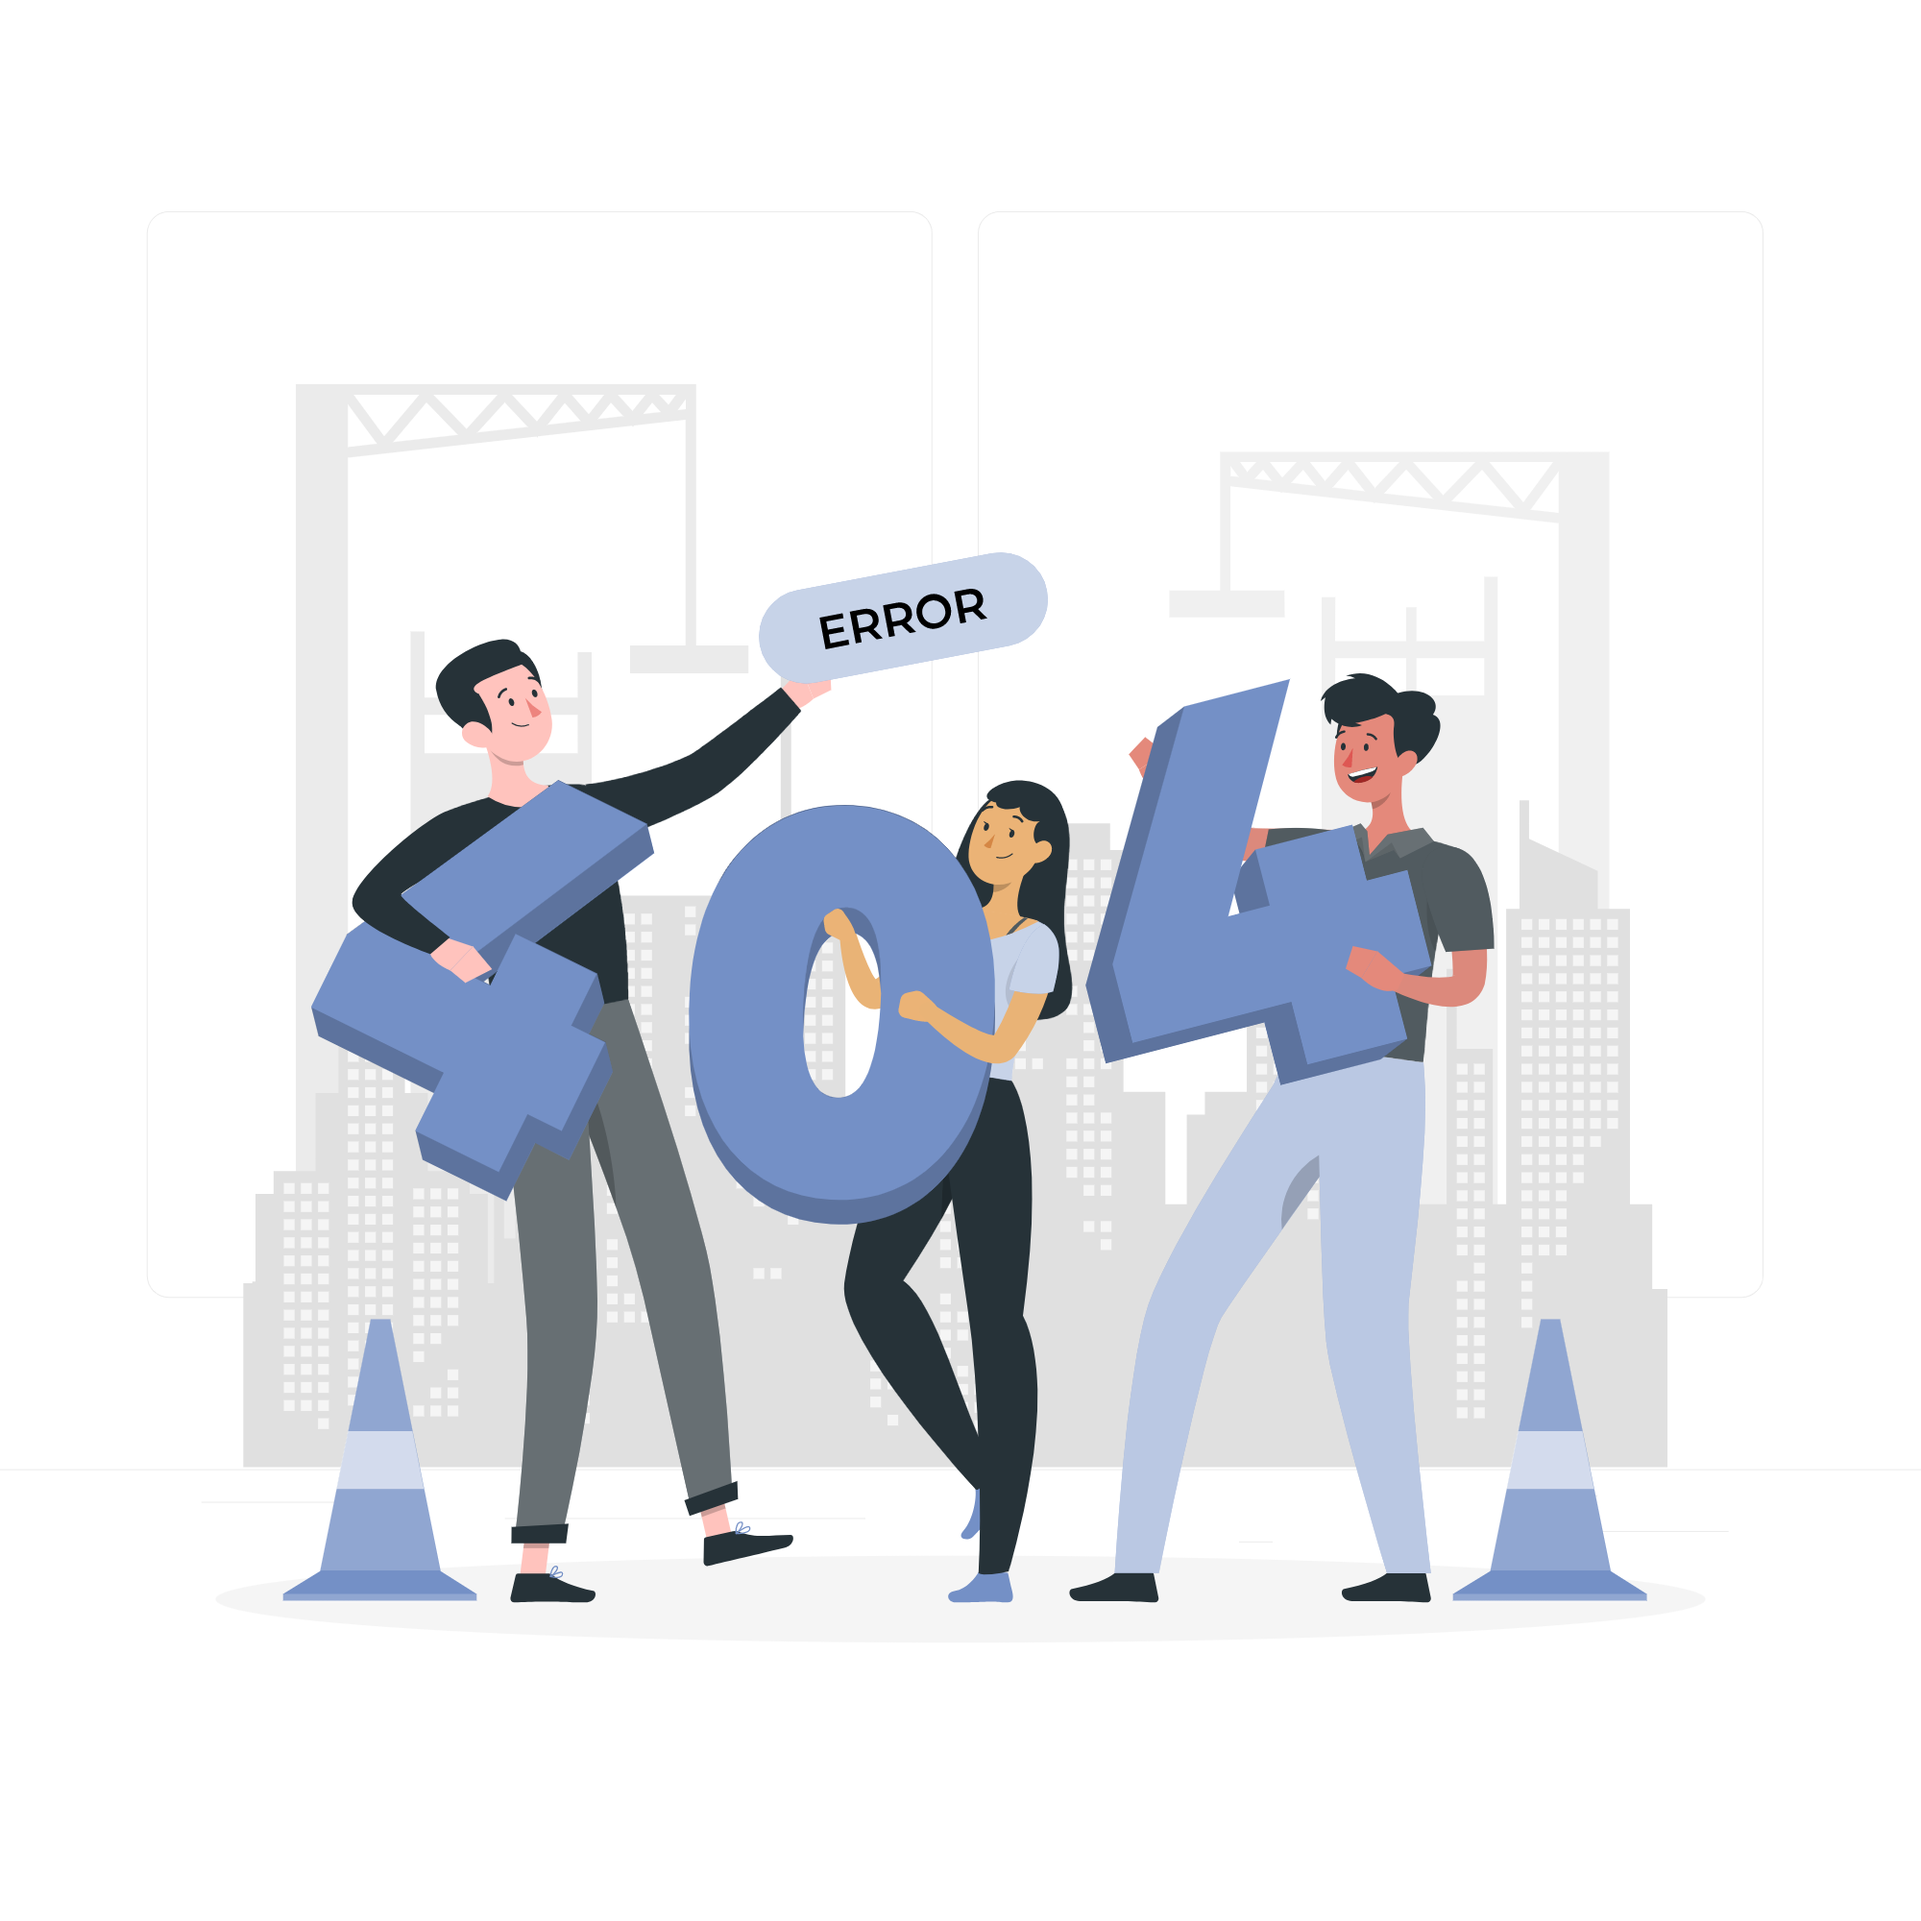
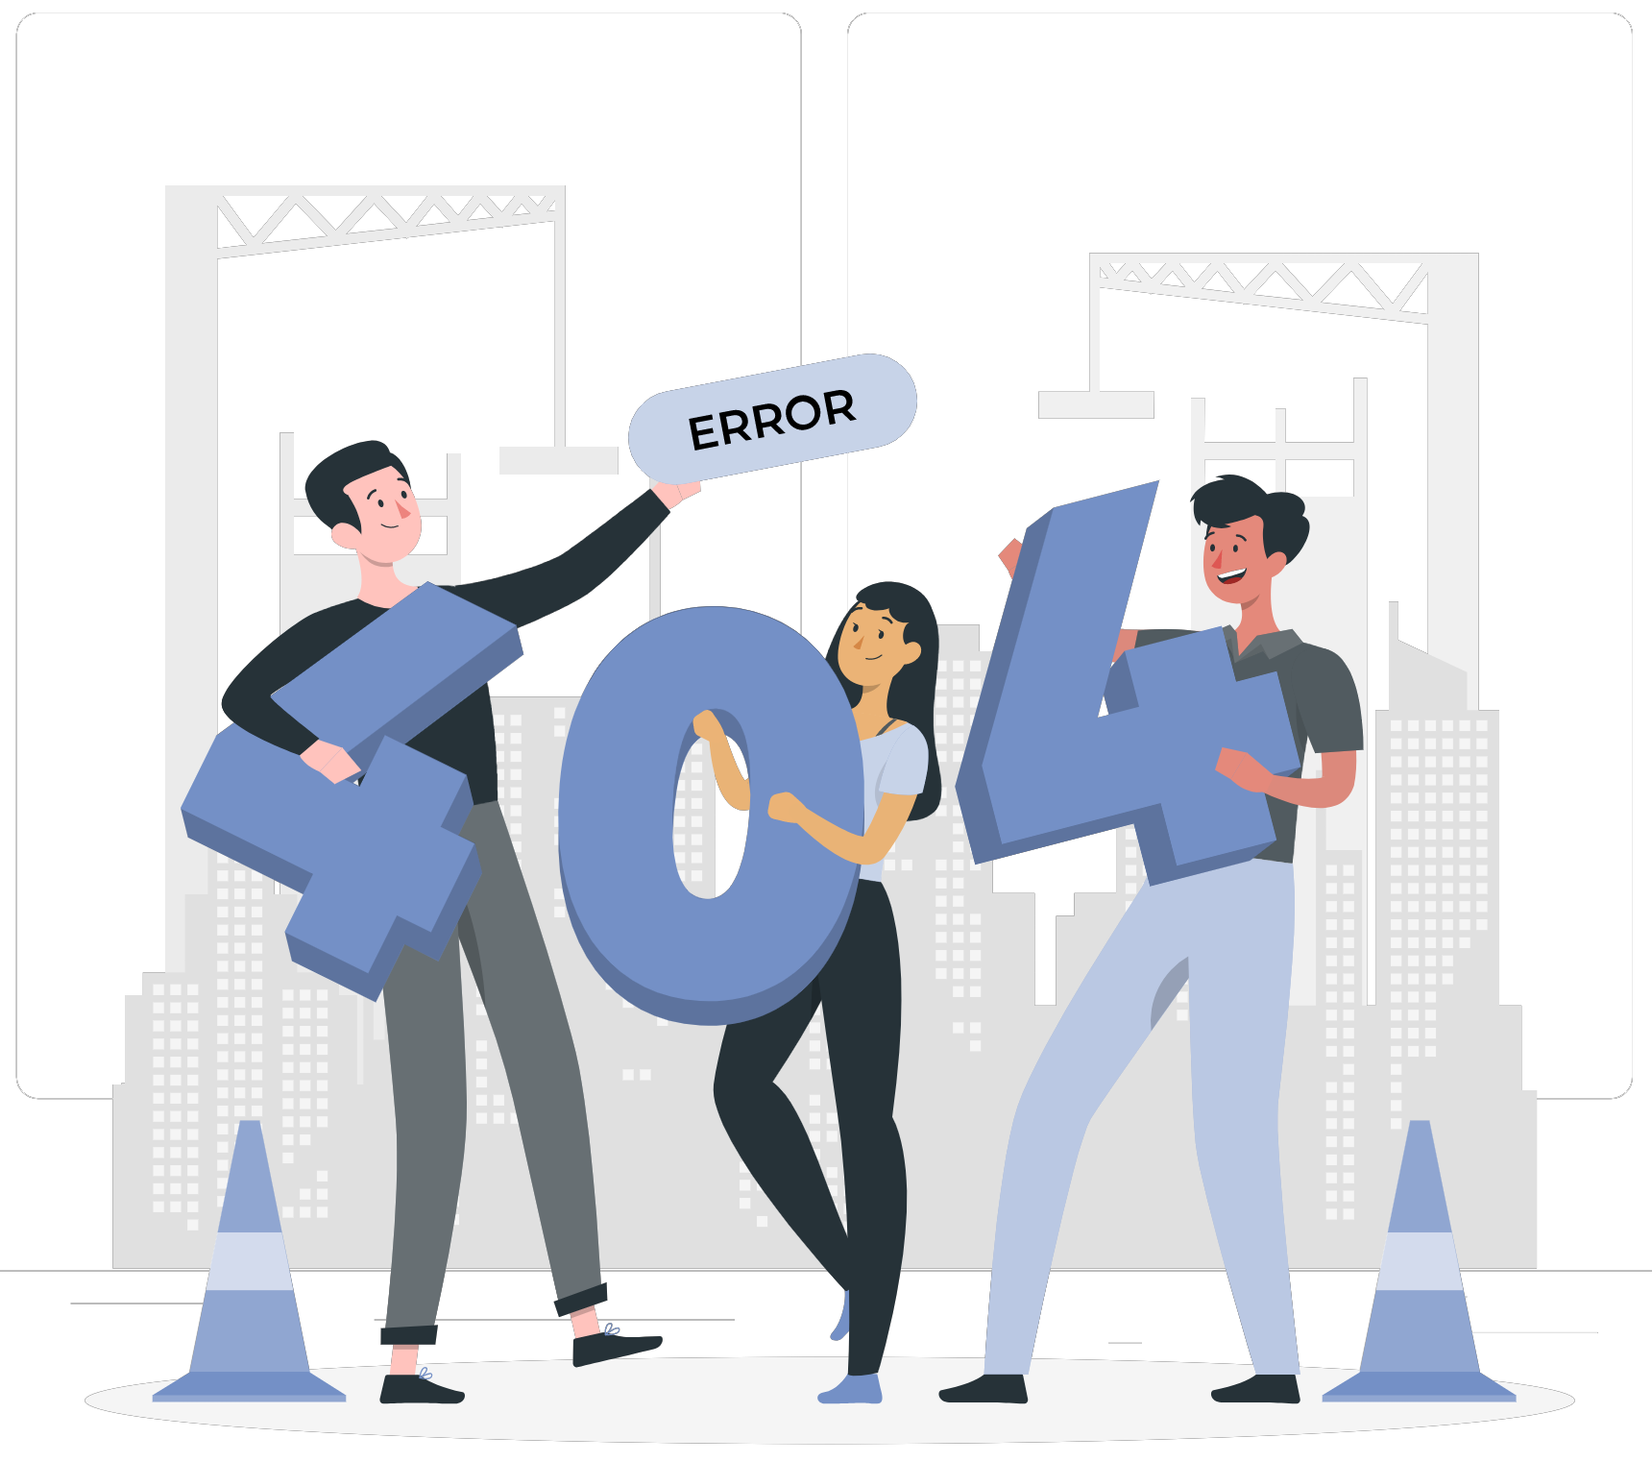
add not-found page

Changed region(s): [[0.0616, 0.247, 0.9552, 0.9882]]

diff --git a/app/not-found.tsx b/app/not-found.tsx
@@ -1,3 +1,4 @@
+import Link from "@/components/share/link/link";
 import Image from "next/image";
 
 const Page = () => {
@@ -5,12 +6,19 @@ const Page = () => {
     <>
       <div className="w-full h-full flex justify-center items-center flex-col text-center">
         <Image
-          height={900}
-          width={900}
+          height={500}
+          width={500}
           src={"/images/not-found.png"}
           priority
           alt="not-found"
+          className="w-full max-w-lg aspect-square object-contain object-center"
         />
+        <Link
+          href="/"
+          className="border-2 border-primary px-6 py-2 text-primary"
+        >
+          بازگشت به خانه
+        </Link>
       </div>
     </>
   );

diff --git a/components/share/underline-tag/underline-tag.tsx b/components/share/underline-tag/underline-tag.tsx
@@ -1,4 +1,4 @@
-"use cliemn";
+"use client";
 import cx from "classnames";
 import UnderlineTagImpl from "./types";
 
